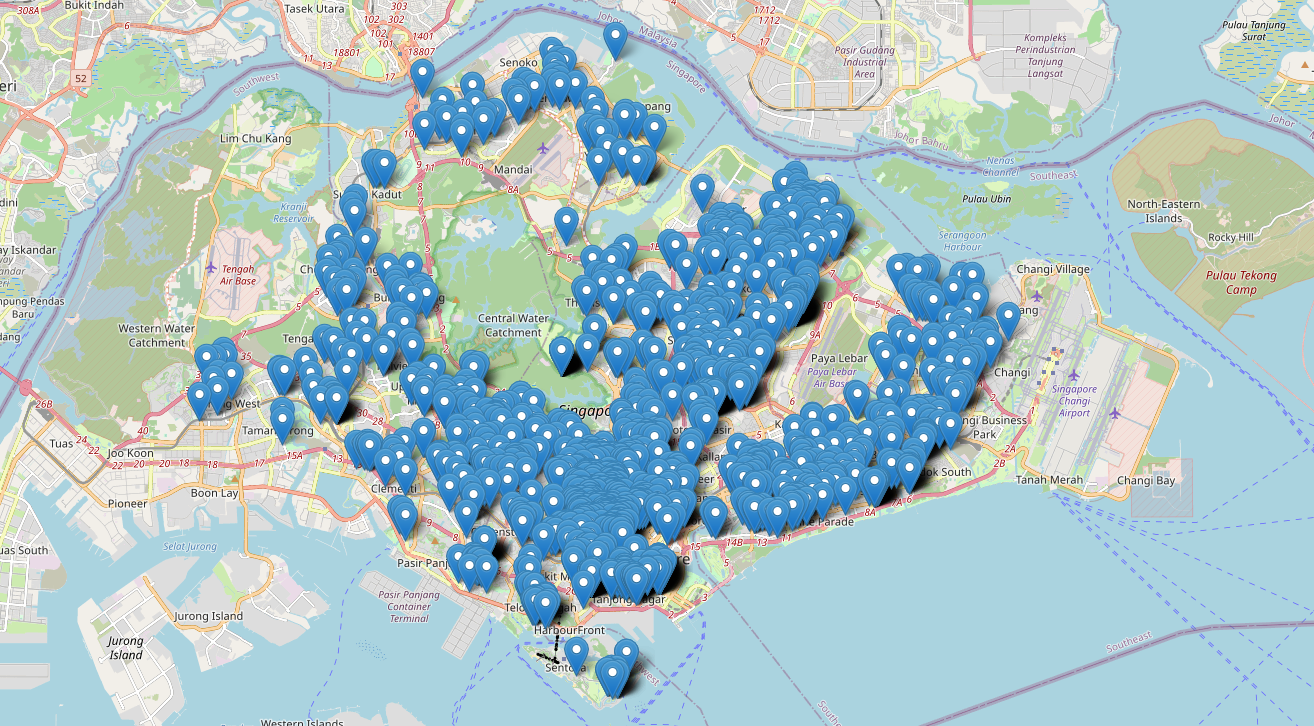
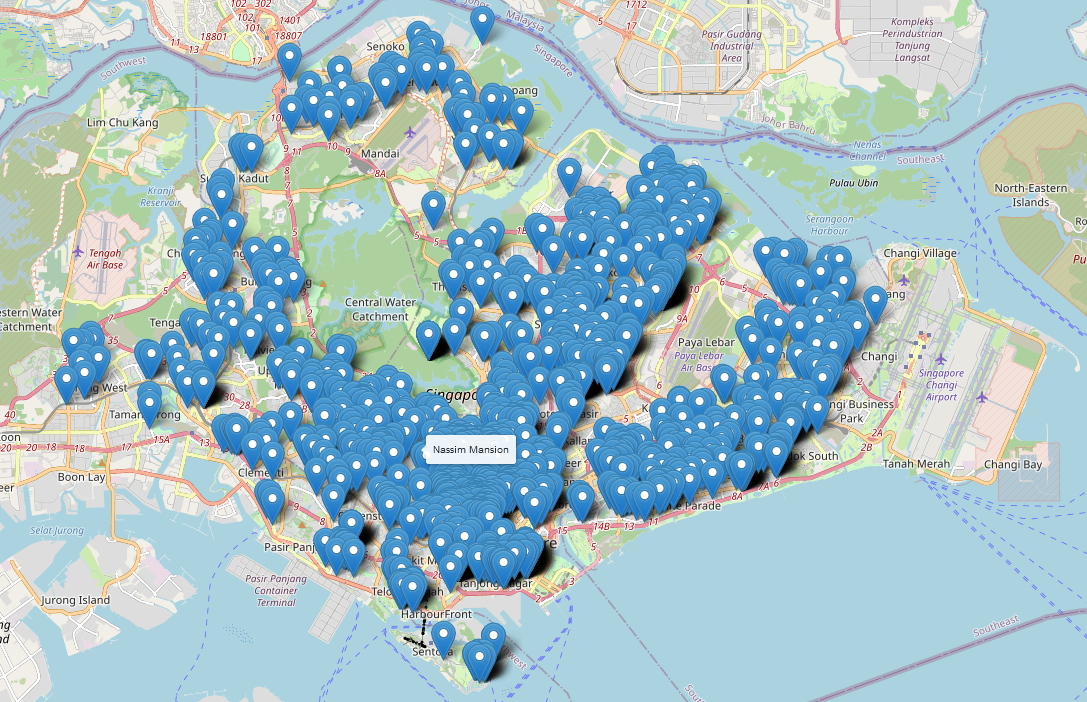
Change map.png again and update README.md

diff --git a/README.md b/README.md
@@ -96,8 +96,8 @@
 
 <!-- EXPLORATY DATA ANALYSIS -->
 ## Exploratory Data Analysis
-Visualized property locations on an interactive map of Singapore using Python's Folium library: [Link to interactive map](https://jensbender.github.io/rental-price-prediction/map.html). 
-<img src="images/map.png" alt="Property map" width="80%">  
+Visualized property locations on an interactive map of Singapore [(link here)](https://jensbender.github.io/rental-price-prediction/map.html) using Python's Folium library.   
+<img src="images/map.png" alt="Property map">  
 
 Utilized a word cloud to visualize word frequencies in property agent descriptions, thus informing feature extraction.
 <img src="images/wordcloud.png" alt="Word cloud" width="80%">
